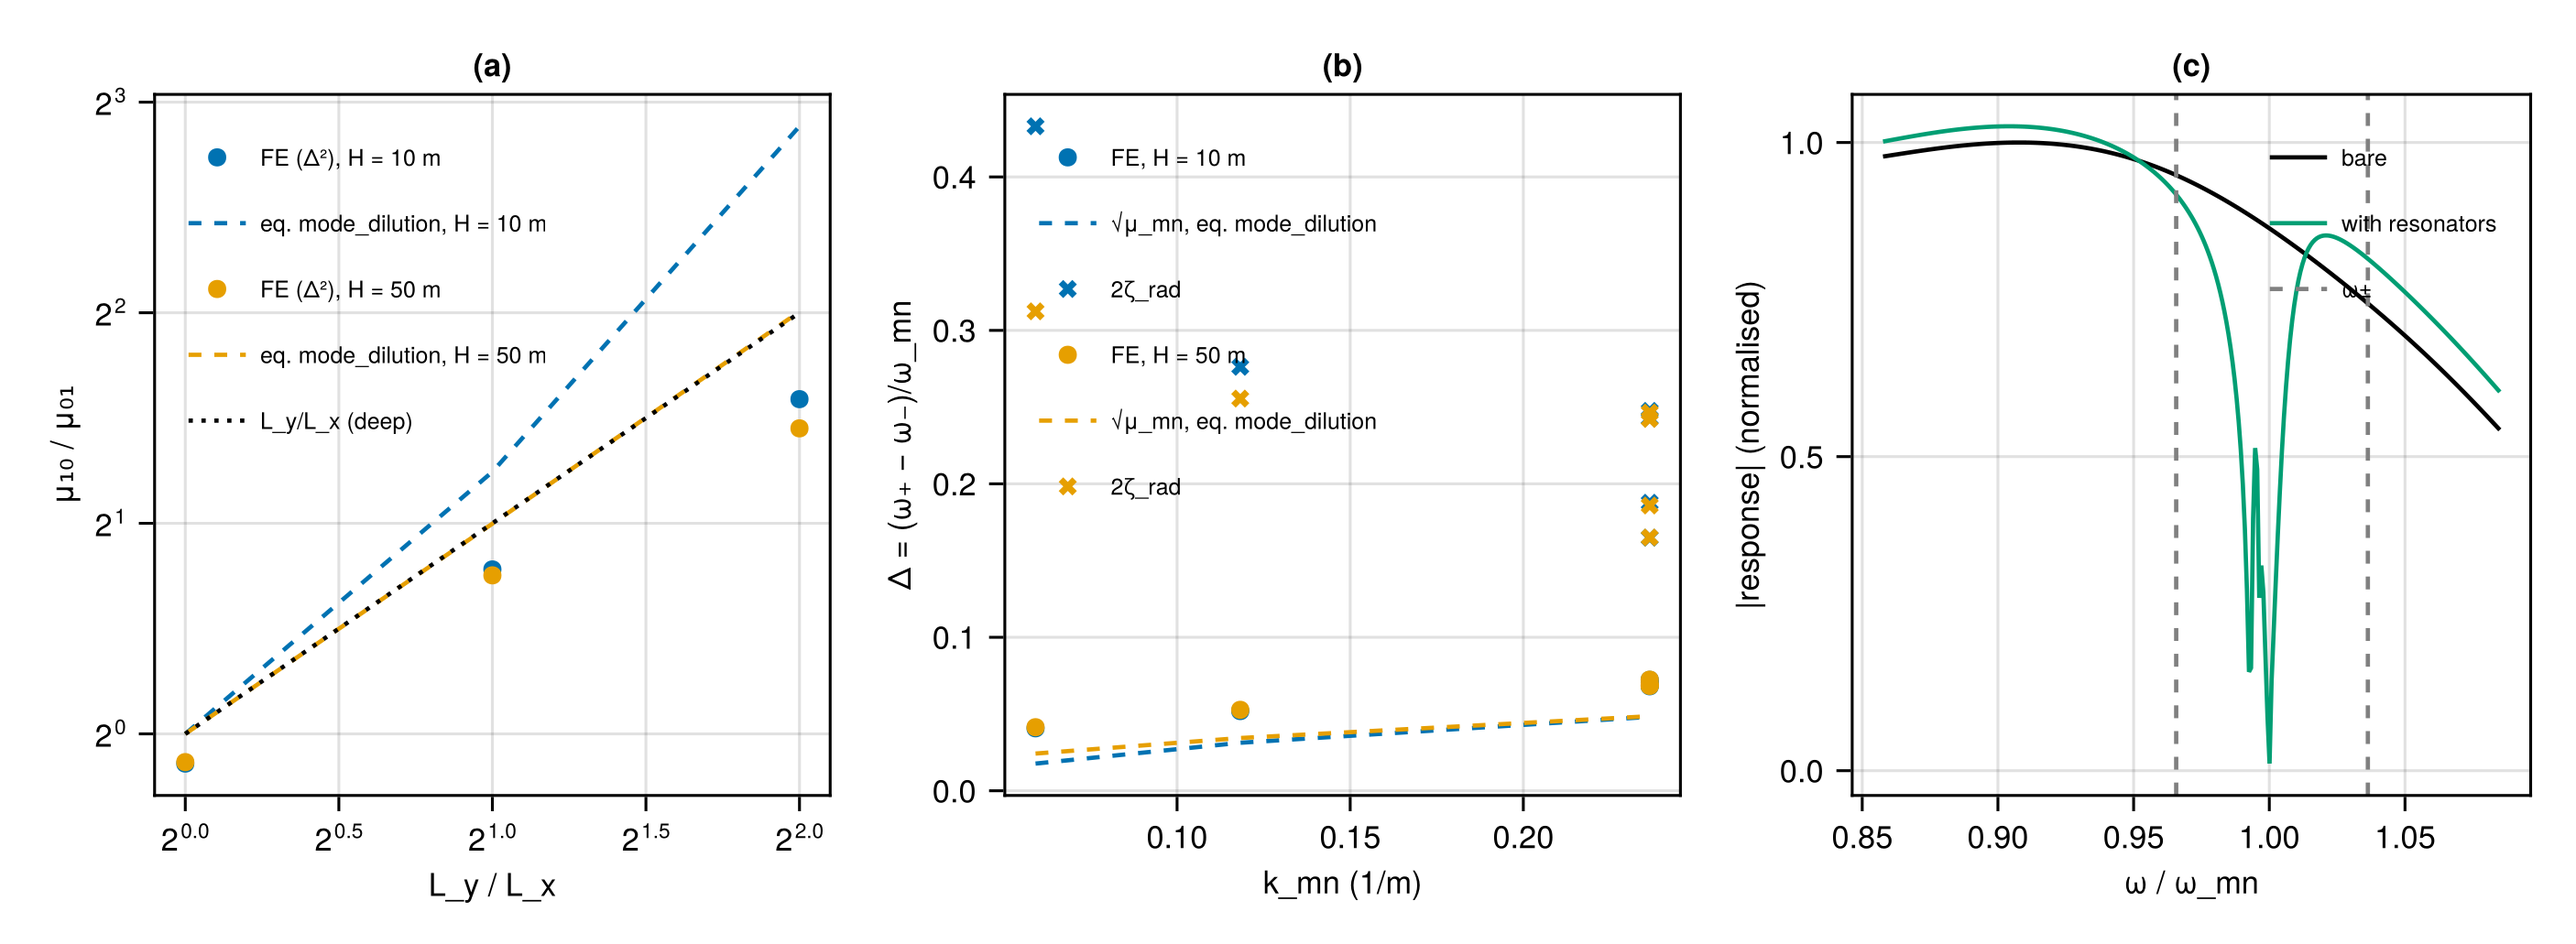
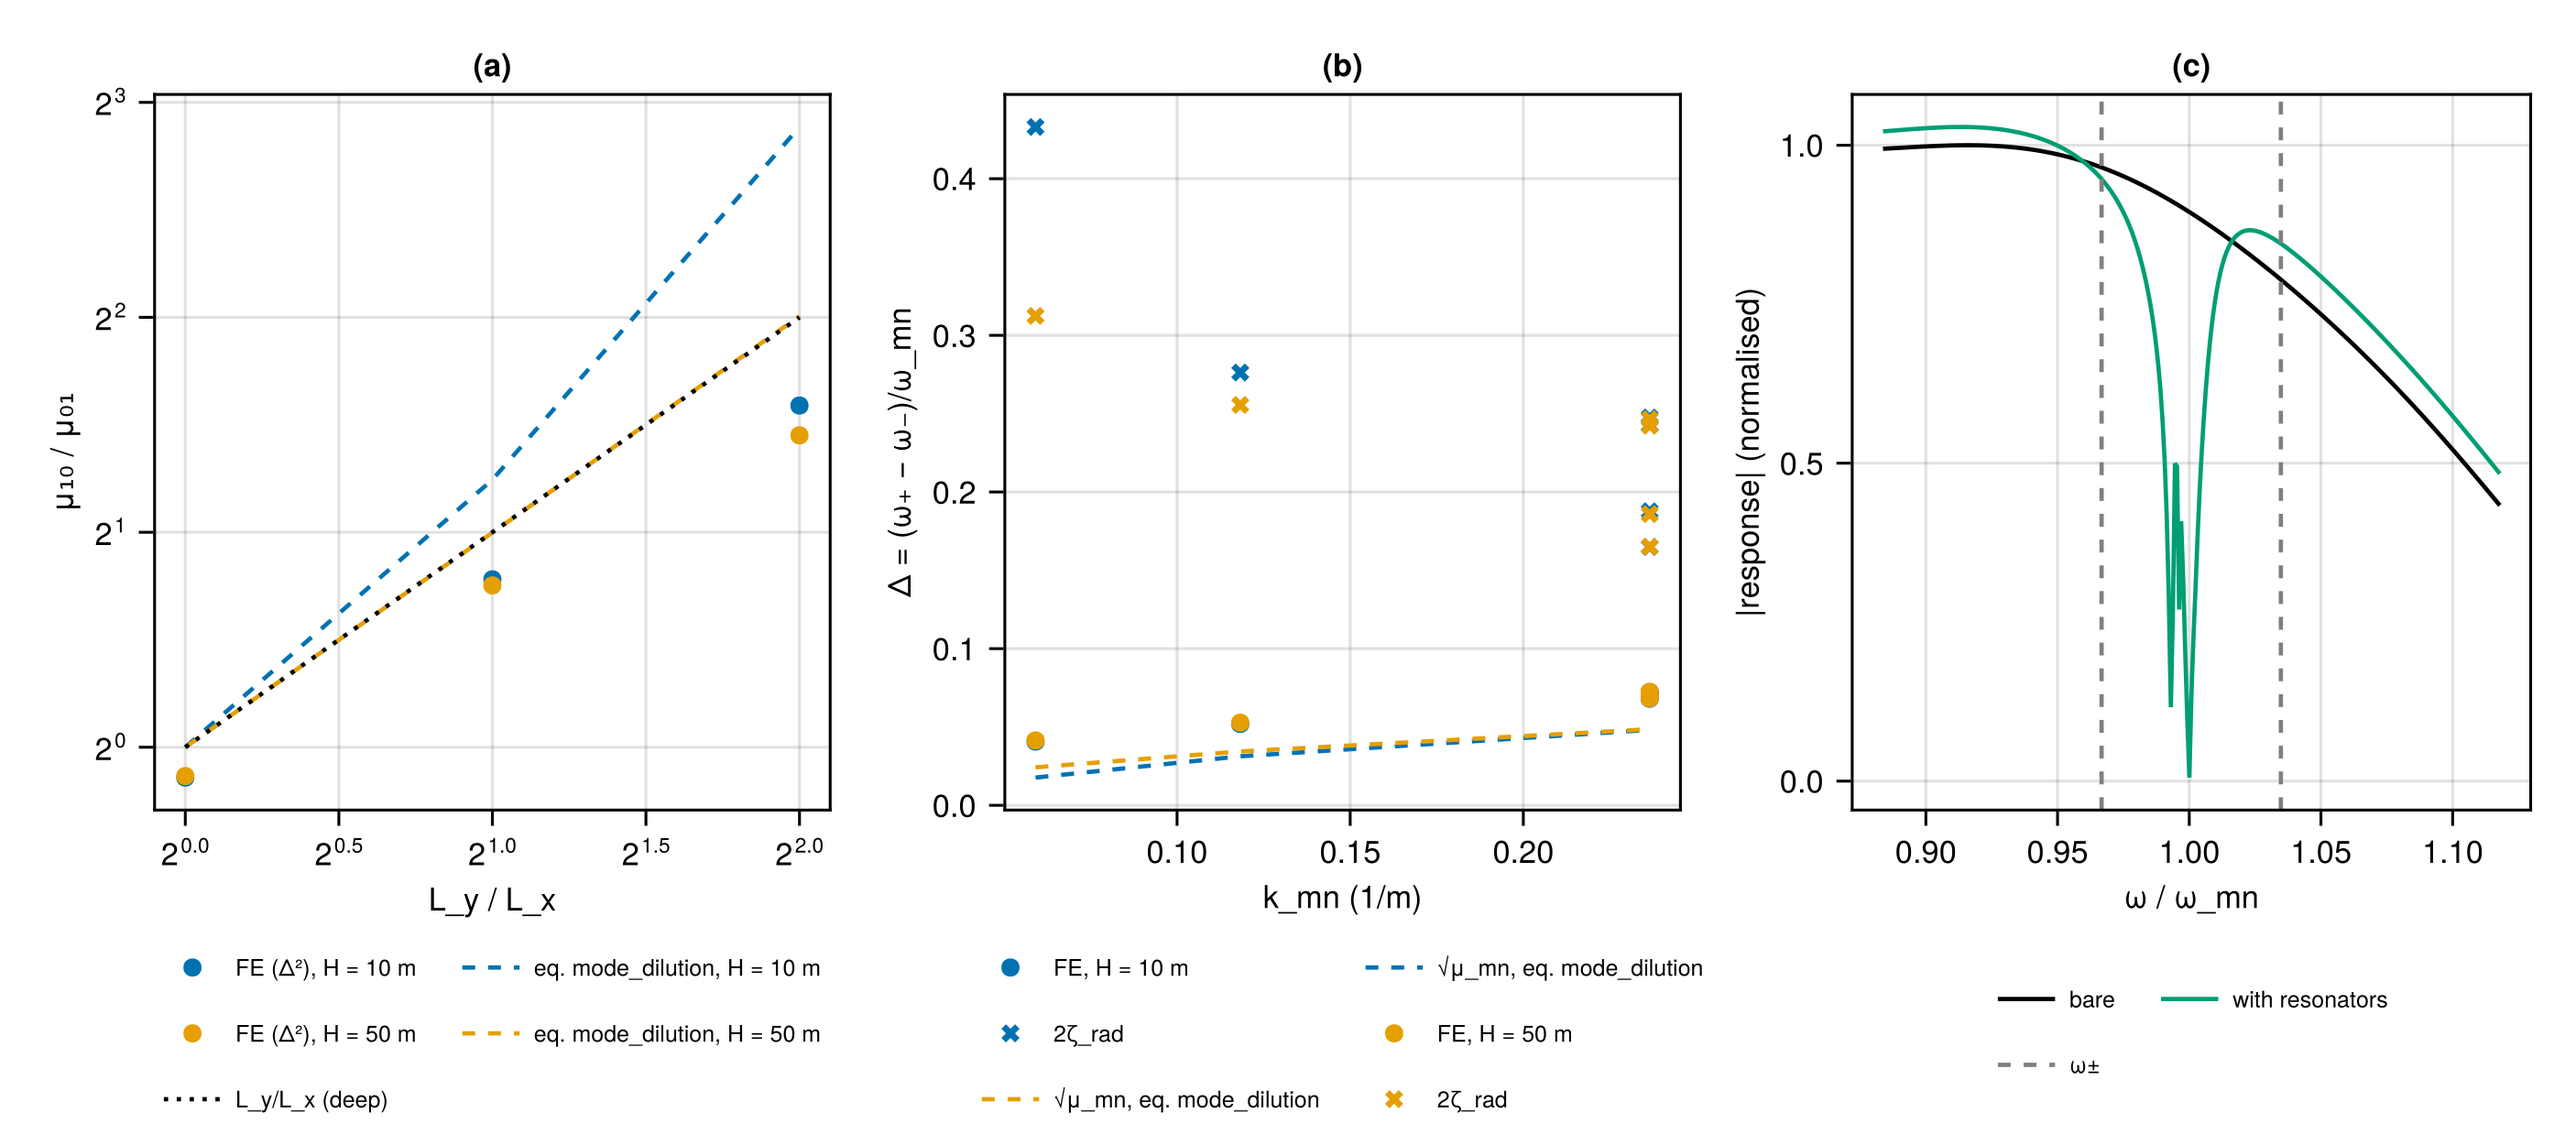
L4-8 figure: legends below panels, panel (c) at L_y = 40 (identified (1,0) mode); caption updated

diff --git a/paper/snippets/L4-8.tex b/paper/snippets/L4-8.tex
@@ -12,7 +12,7 @@
 \begin{figure}[t]
     \centering
     \includegraphics[width=\linewidth]{figures/L4_8_anisotropic_hybridisation.png}
-    \caption{Anisotropic hybridisation of free rectangular plates ($L_x=20~\si{\meter}$, quarter domain, Ritz-reduced wet modes). (a) $\mu_{10}/\mu_{01}=\Delta_{10}^2/\Delta_{01}^2$ against $L_y/L_x$ (markers; at $L_y/L_x=1$ the ratio of the diagonal-symmetric and antisymmetric modes), \eqref{eq:mode_dilution} at finite depth (dashed) and the deep-water law $L_y/L_x$ (dotted). (b) Splitting $\Delta$ (circles) and $2\zeta_\mathrm{rad}$ (crosses) against $k_{mn}$, and $\sqrt{\mu_{mn}}$ from \eqref{eq:mode_dilution} (dashed). (c) Response of the reduced model to the target pressure, $L_y=80~\si{\meter}$, $H=10~\si{\meter}$, mode $(1,0)$, without and with the tuned field; dashed: $\omega_\pm$.}
+    \caption{Anisotropic hybridisation of free rectangular plates ($L_x=20~\si{\meter}$, quarter domain, Ritz-reduced wet modes). (a) $\mu_{10}/\mu_{01}=\Delta_{10}^2/\Delta_{01}^2$ against $L_y/L_x$ (markers; at $L_y/L_x=1$ the ratio of the diagonal-symmetric and antisymmetric modes), \eqref{eq:mode_dilution} at finite depth (dashed) and the deep-water law $L_y/L_x$ (dotted). (b) Splitting $\Delta$ (circles) and $2\zeta_\mathrm{rad}$ (crosses) against $k_{mn}$, and $\sqrt{\mu_{mn}}$ from \eqref{eq:mode_dilution} (dashed). (c) Response of the reduced model to the target pressure, $L_y=40~\si{\meter}$, $H=10~\si{\meter}$, mode $(1,0)$, without and with the tuned field; dashed: $\omega_\pm$.}
     \label{fig:num_L4_8}
 \end{figure}
 }
